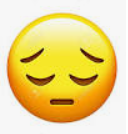
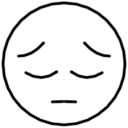
Polished color palette, fixed smile/frown static images
Additionally committed previously uncommitted PolygonDrawer changes

diff --git a/tmp/static/PolygonDrawer.js b/tmp/static/PolygonDrawer.js
@@ -1,13 +1,23 @@
 
 const DrawingScope = (function() {
+
+	const canvasSize = 750;
+	const halfSize = 375;
+	var array;
+	var points;
+	var canvasID;
+	var canvas;
+	var context;
 	
 	// A binary search helper function
-	// 
-	function find(array, rad) {
+	// finds points along the circumference of a circle with a given radius
+	//   such that the side lengths of the traced polygon matches up with
+	//   the side lengths in the array
+	function find(rad) {
 		var ang = 0;
 		var ret = new Array(array.length);
 		for(let i = 0; i < array.length; i++) {
-			let cur = Math.acos(1-array[i]/2/rad);
+			let cur = Math.acos(1-array[i]*array[i]/2/rad/rad);
 			ang += cur;
 			ret[i] = [rad * Math.cos(ang), rad * Math.sin(ang)];
 		}
@@ -17,10 +27,14 @@ const DrawingScope = (function() {
 	// A binary search helper function.
 	// Takes in an array of lengths and determines if it satisfies the equation
 	//   sum acos(1-array[i]/2/rad) >= 2PI
-	function fit(array, rad) {
+	function fit(rad) {
 		var ang = 0;
 		for(let i = 0; i < array.length; i++) {
-			let cur = Math.acos(1-array[i]/2/rad);
+			let cur = 1-array[i]*array[i]/2/rad/rad;
+			if(cur < -1) {
+				return true;
+			}
+			cur = Math.acos(cur);
 			ang += cur;
 		}
 		return ang >= 2*Math.PI;
@@ -30,7 +44,7 @@ const DrawingScope = (function() {
 	// Takes in an array of integers representing lengths and the id of an html canvas item
 	// If possible, draws a polygon whose side lengths match up to the array side lengths in order
 	//   onto the canvas labeled by canvasID
-	function drawPoly(array, canvasID) {
+	function drawPoly() {
 		
 		var highest = -1, highestidx;
 		var sum = 0;
@@ -41,35 +55,32 @@ const DrawingScope = (function() {
 			}
 			sum += array[i];
 		}
-		console.log(highest);
-		console.log(highestidx);
-		console.log(sum);
 		if(2*highest >= sum) {
 			//in this case, it's impossible to draw a polygon, so we do nothing.
-			console.log('impossible');
+			alert('An internal error has occurred. Please reload the page')
 			return;
 		}
 		if((1+Math.PI/4)*highest >= sum) {
-			specialcase(array, highestidx, canvasID);
+			specialcase(highestidx);
 		}
 		else {
 			let minrad = sum/2/Math.PI;
 			let maxrad = sum/4;
 			for(let it = 0; it < 30; it++) {
 				let rad = (minrad + maxrad) / 2;
-				if(fit(array, rad)) {
+				if(fit(rad)) {
 					minrad = rad;
 				}
 				else {
 					maxrad = rad;
 				}
 			}
-			let poly = find(array, minrad);
-			for(let i = 0; i < poly.length; i++) {
-				poly[i][0] = 200+poly[i][0]/minrad*150;
-				poly[i][1] = 200+poly[i][1]/minrad*150;
+			points = find(maxrad);
+			for(let i = 0; i < points.length; i++) {
+				points[i][0] = halfSize+points[i][0]/minrad*halfSize*0.7;
+				points[i][1] = halfSize+points[i][1]/minrad*halfSize*0.7;
 			}
-			tracePoints(poly, canvasID);
+			tracePoints();
 		}
 	}
 	
@@ -78,7 +89,7 @@ const DrawingScope = (function() {
 	// returns if the sum of vectors incrementally increasing in angle by arg
 	//   whose length is given by all the nonhighest elements in the array
 	//   has a magnitude of less than the value of the highest element of the array
-	function specialfit(array, idx, ang) {
+	function specialfit(idx, ang) {
 		let cur = 0;
 		let x = 0, y = 0;
 		for(let i = idx+1; i < array.length; i++) {
@@ -93,7 +104,9 @@ const DrawingScope = (function() {
 		}
 		return Math.sqrt(x*x+y*y) >= array[idx];
 	}
-	function specialfind(array, idx, ang) {
+	// Takes in an array, the index of its highest element, and an angle value
+	// returns an array of vectors created by the process described in specialfit
+	function specialfind(idx, ang) {
 		let cur = 0;
 		let x = 0, y = 0;
 		let ret = new Array(array.length);
@@ -112,52 +125,65 @@ const DrawingScope = (function() {
 		return ret;
 	}
 	
-	function specialcase(array, idx, canvasID) {
+	// drawPoly delegates its task to this function under a special case
+	// (1+Math.PI/4)*highest >= sum
+	function specialcase(idx) {
 		let minang = 0, maxang = 2*PI/(array.length-1);
 		for(let it = 0; it < 30; it++) {
 			let ang = (minang+maxang)/2;
-			if(specialfit(array, idx, ang)) {
+			if(specialfit(idx, ang)) {
 				minang = ang;
 			}
 			else {
 				maxang = ang;
 			}
 		}
-		let poly = specialfind(array, idx, maxang);
+		points = specialfind(idx, maxang);
 		//this polygon is way off center, and would appear cut off in the canvas itself.
 		//Thus we translate and resize it.
 		let midx = 0, midy = 0;
-		for(let i = 0; i < poly.length; i++) {
-			midx += poly[i][0];
-			midy += poly[i][1];
+		for(let i = 0; i < points.length; i++) {
+			midx += points[i][0];
+			midy += points[i][1];
 		}
-		midx /= poly.length; midy /= poly.length;
+		midx /= points.length; midy /= points.length;
 		let maxx = 0, maxy = 0;
-		for(let i = 0; i < poly.length; i++) {
-			poly[i][0] -= midx;
-			poly[i][1] -= midy;
-			if(poly[i][0]*poly[i][0]+poly[i][1]*poly[i][1] > maxx*maxx + maxy*maxy) {
-				maxx = poly[i][0];
-				maxy = poly[i][1];
+		for(let i = 0; i < points.length; i++) {
+			points[i][0] -= midx;
+			points[i][1] -= midy;
+			if(points[i][0]*points[i][0]+points[i][1]*points[i][1] > maxx*maxx + maxy*maxy) {
+				maxx = points[i][0];
+				maxy = points[i][1];
 			}
 		}
 		let maxlen = Math.sqrt(maxx*maxx+maxy*maxy);
-		for(let i = 0; i < poly.length; i++) {
-			poly[i][0] = poly[i][0]/maxlen*200+200;
-			poly[i][1] = poly[i][1]/maxlen*200+200;
+		for(let i = 0; i < points.length; i++) {
+			points[i][0] = points[i][0]/maxlen*halfSize*0.7+halfSize;
+			points[i][1] = points[i][1]/maxlen*halfSize*0.7+halfSize;
 		}
-		tracePoints(poly, canvasID);
+		tracePoints();
+	}
+
+	// Helper function
+	// given a line and an integer, draws the integer beside the midpoint at a fixed distance of 45 pixels
+	//   perpendicular to the line
+	function drawLength(x1, y1, x2, y2, val) {
+		let dx = y1-y2, dy = x2-x1;
+		let d = Math.sqrt(dx*dx+dy*dy);
+		dx*=45/d; dy*=45/d;
+		context.fillText(val.toString(), (x1+x2)/2+dx-6, (y1+y2)/2+dy+3);
 	}
 	
 	// Function to draw onto the canvas.
 	// Takes in an array of 2d vectors, each vector representing a point, and a canvas ID
-	// Resizes the canvas to 400x400 and the polygon onto the canvas
-	function tracePoints(points, canvasID) {
-		var canvas = document.getElementById(canvasID);
-		canvas.setAttribute('width', '400');
-		canvas.setAttribute('height', '400');
-		var context = canvas.getContext('2d');
-			console.log(points); //DEBUG
+	// Resizes the canvas to canvasSizexcanvasSize and the polygon onto the canvas
+	// Additionally draws the side lengths of the polygons
+	function tracePoints() {
+		canvas = document.getElementById(canvasID);
+		canvas.setAttribute('width', canvasSize.toString());
+		canvas.setAttribute('height', canvasSize.toString());
+
+		context = canvas.getContext('2d');
 		context.clearRect(0, 0, canvas.width, canvas.height);
 		context.beginPath();
 		context.moveTo(points[0][0], points[0][1]);
@@ -166,17 +192,70 @@ const DrawingScope = (function() {
 		}
 		context.closePath();
 		context.stroke();
+
+
+		context.font='35px verdana';
+		drawLength(points[0][0], points[0][1], points[points.length-1][0], points[points.length-1][1], array[0]);
+		for(let i = 1; i < points.length; i++) {
+			drawLength(points[i][0], points[i][1], points[i-1][0], points[i-1][1], array[i]);
+		}
 	}
 	return {
-		// The only public function.
+
 		// Takes in a canvasID
-		// resizes the canvas to 400x400 and draws a random polygon on it.
-		generatePoly: function(canvasID) {
-			let len = 3;
-			let arr = new Array(len);
-			for(let i = 0; i < len; i++) arr[i] = Math.floor(Math.random()*10+1.1)*10;
-				console.log(arr); //DEBUG
-			drawPoly(arr, canvasID);
+		// resizes the canvas to canvasSizexcanvasSize and draws a random polygon on it.
+		generatePoly: function(cID) {
+			canvasID = cID;
+
+			let len = Math.floor(Math.random()*7)+3;
+			array = new Array(len);
+			let max = -1, maxidx = 0, sum = 0;
+			for(let i = 0; i < len; i++) {
+				array[i] = Math.floor(Math.random()*10+1.1);
+				if(array[i] > max) {
+					max = array[i];
+					maxidx = i;
+				}
+				sum += array[i];
+			}
+			if(2*max >= sum) {
+				array[maxidx] = sum-max-1; //this is to ensure the polygon will always be possible to draw
+			}
+				console.log(array); //DEBUG
+			drawPoly();
+		},
+		
+		// takes in an input box ID and a list of html IDs and sets their src to
+		//   /static/smile.png or static/frown.png depending on if the answer was correct
+		checkPoly: function(inputboxID, lstID) {
+			inputbox = document.getElementById(inputboxID);
+			let sum = 0;
+			for(let i = 0; i < array.length; i++) {
+				sum += array[i];
+			}
+			let correctness = inputbox.value == sum.toString();
+			for(let i = 0; i < lstID.length; i++) {
+				let tmp = document.getElementById(lstID[i]);
+				if(tmp.classList.contains('hiddenimg')) {
+					tmp.classList.remove('hiddenimg');
+				}
+				tmp.classList.add('resultimg');
+				if(correctness) {
+					tmp.setAttribute('src', '/static/smile.png');
+				}
+				else {
+					tmp.setAttribute('src', '/static/frown.png');
+				}
+			}
+		},
+
+		// takes in an input box ID and sets its value to the correct answer
+		showSolution: function(inputboxID) {
+			let sum = 0;
+			for(let i = 0; i < array.length; i++) {
+				sum += array[i];
+			}
+			document.getElementById(inputboxID).value = sum.toString();
 		}
 	};
 })();

diff --git a/static/styles.css b/static/styles.css
@@ -1,6 +1,6 @@
 body {
-    /*font-family: Arial, sans-serif;*/
-    background-color: #f0f0f0;
+    font-family: Arial, sans-serif;
+    background-color: #fafafe;
     text-align: center;
 }
 
@@ -43,26 +43,28 @@ td {
 }
 
 header {
-    background-color: #80f0f0;
-    color: gray;
+    background-color: #72d3f7;
+    color: #3a75f2;
     padding: 1px;
     font-size: 20px;
     text-align: left;
 }
 
 footer {
-    background-color: #80f0f0;
-    color: white;
+    background-color: #72d3f7;
+    color: #3a75f2;
     padding: 10px;
     font-size: 20px;
     text-align: center;
 }
 
 a:link {
+    color: #515fce;
     text-decoration: none;
 }
 
 a:visited {
+    color: #6546a4;
     text-decoration: none;
 }
 
